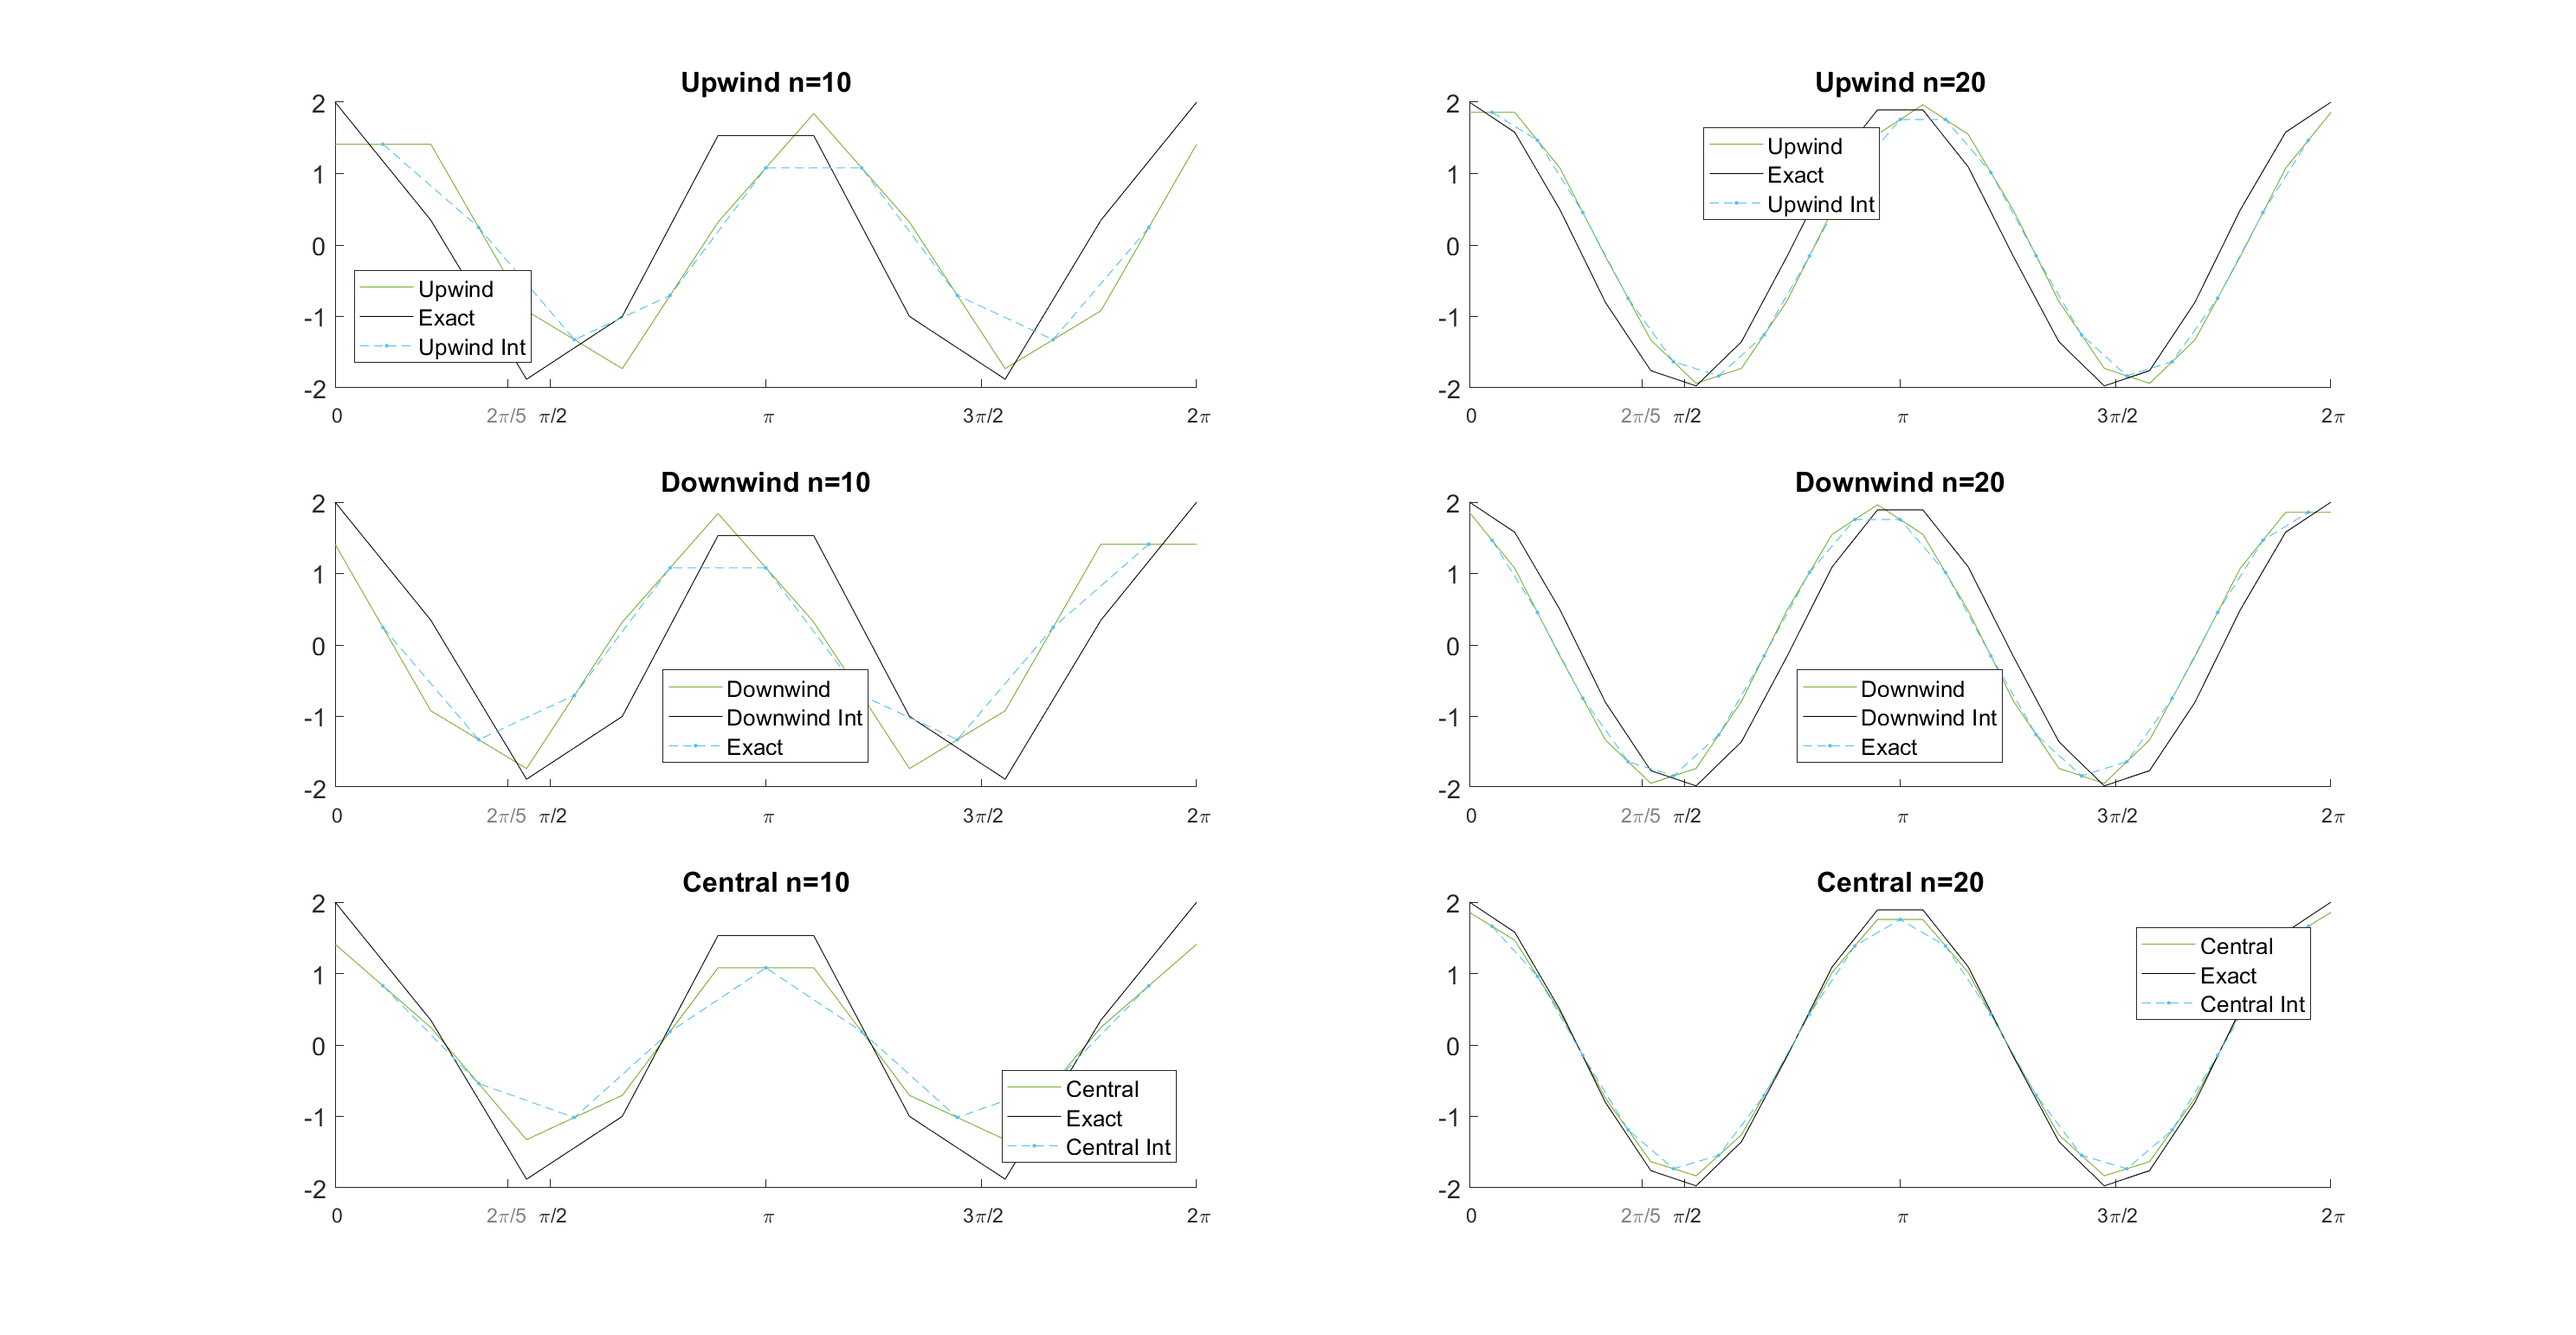
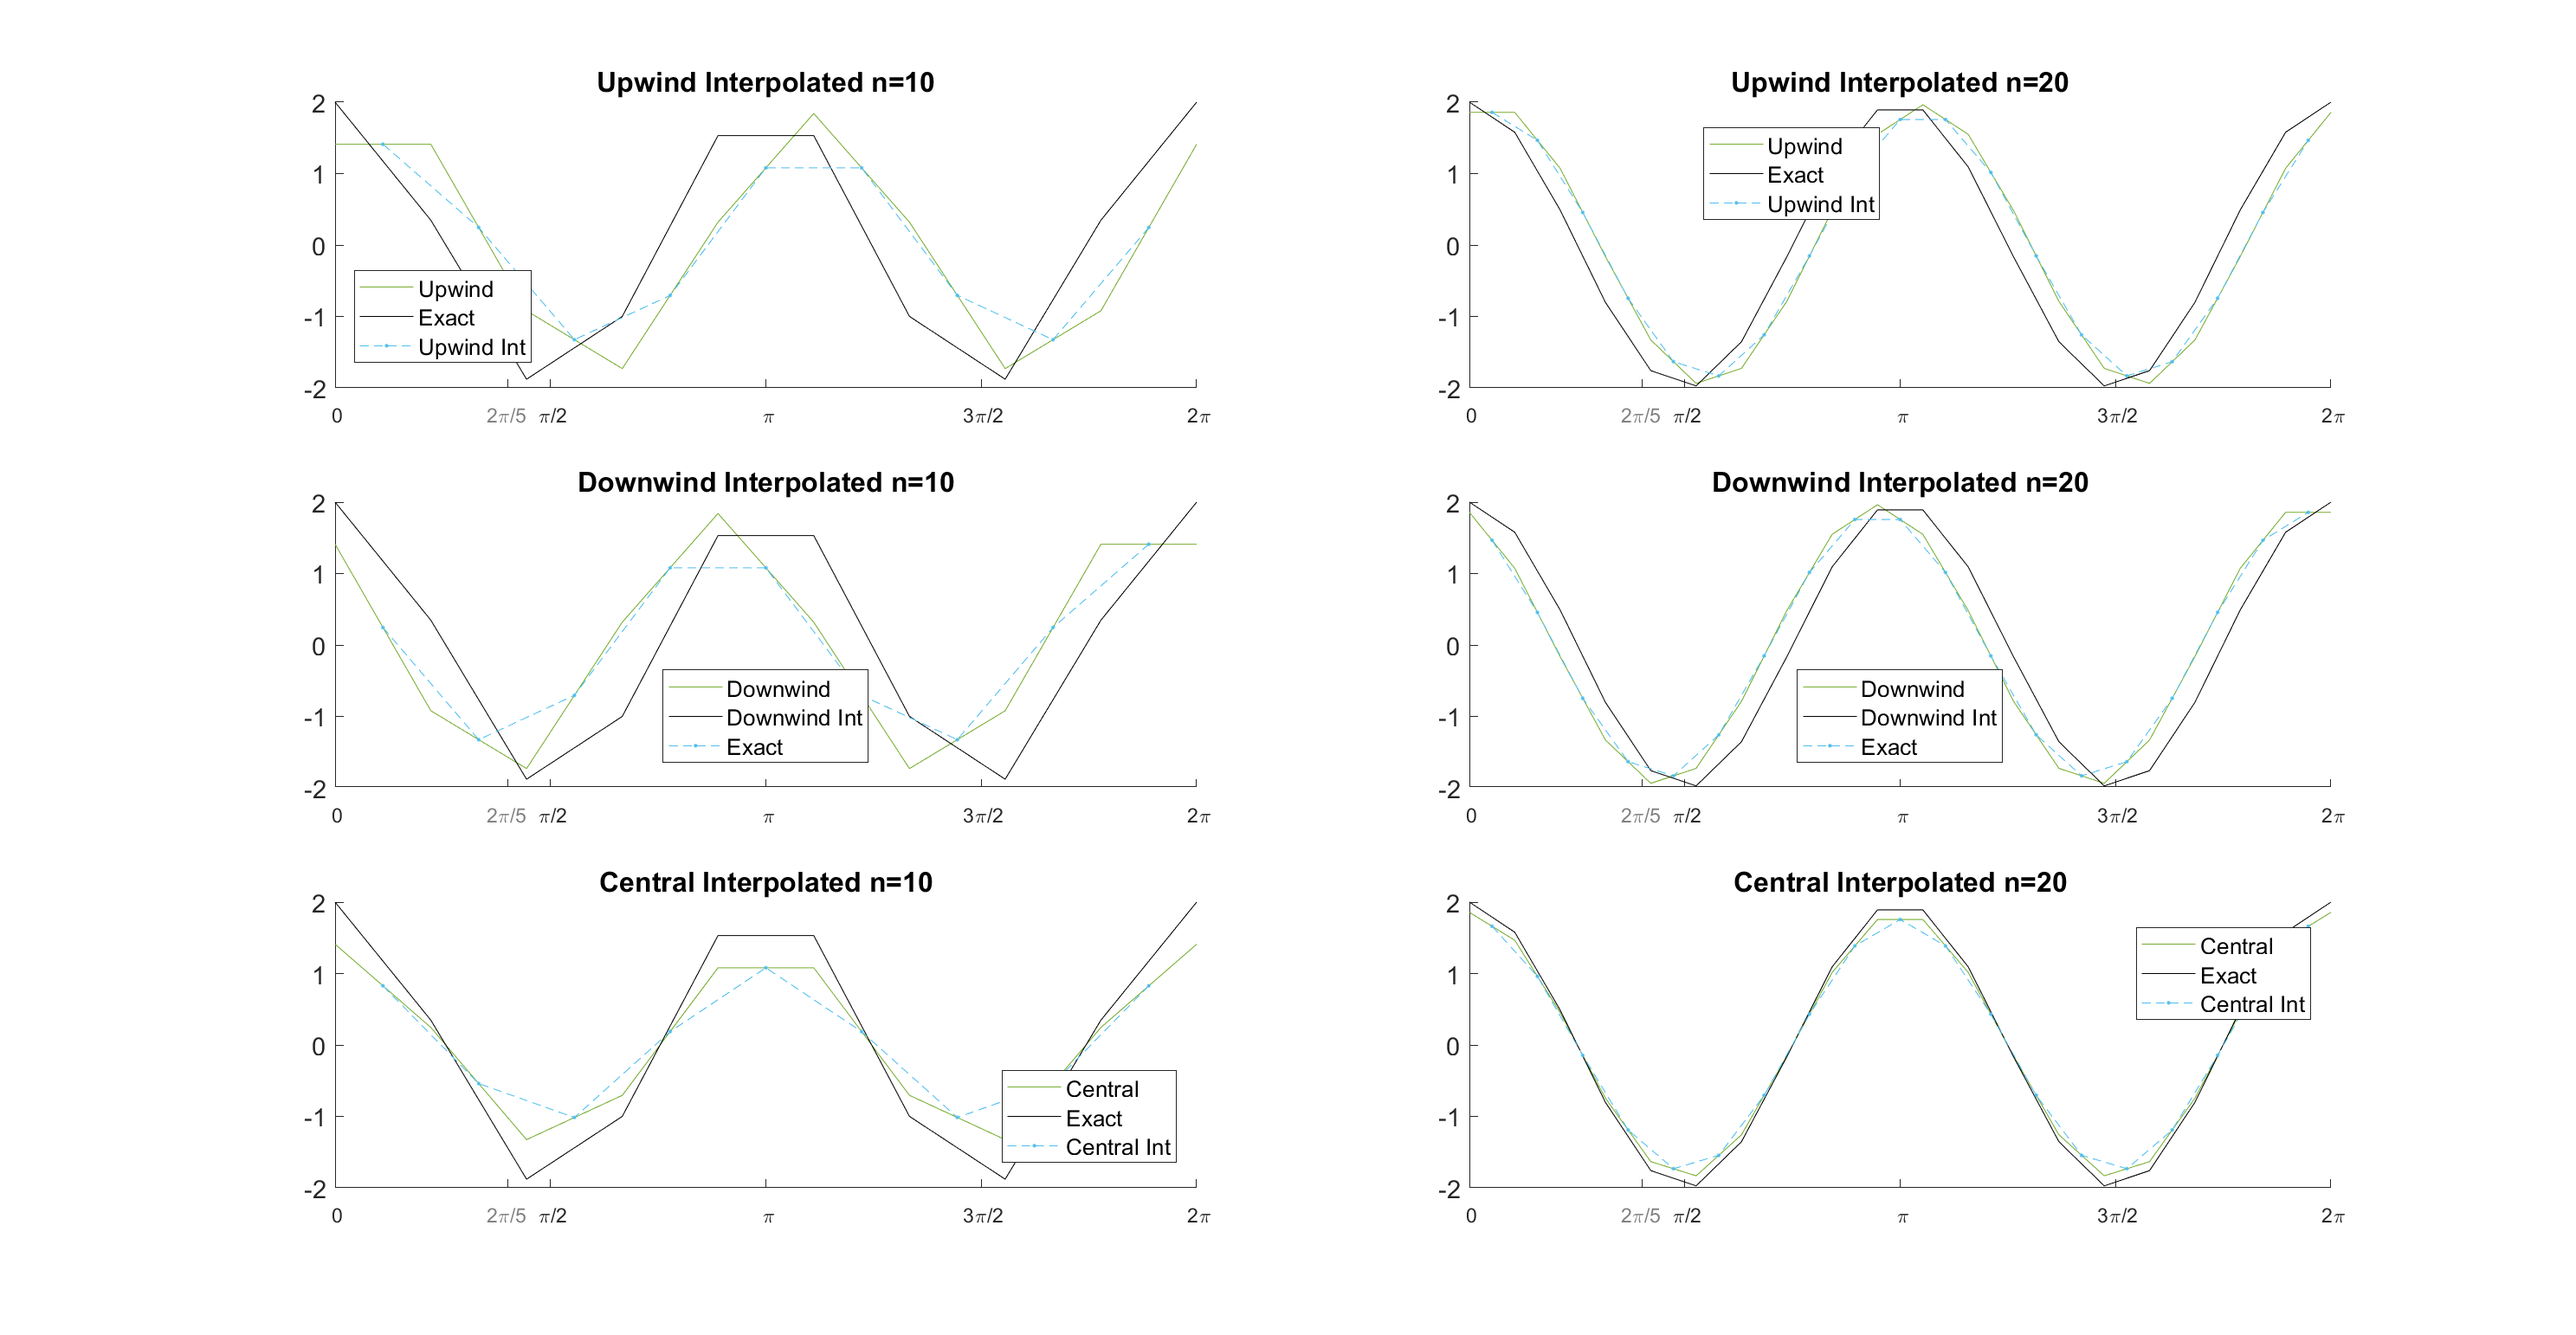
Minor Error

diff --git a/one.m b/one.m
@@ -226,7 +226,7 @@ for j = 1:length(grid)
     set(gca,'FontSize',14); 
     
     plot(x, dfn_D, '-', x, dfe, '-k',xq, dfn_D_interp, '.--')
-    legend('Downwind','Downwind Int','Exact','Location','best')
+    legend('Downwind','Exact','Downwind Int','Location','best')
     title(['Downwind Interpolated n=',num2str(n)]);
     hold off
     
